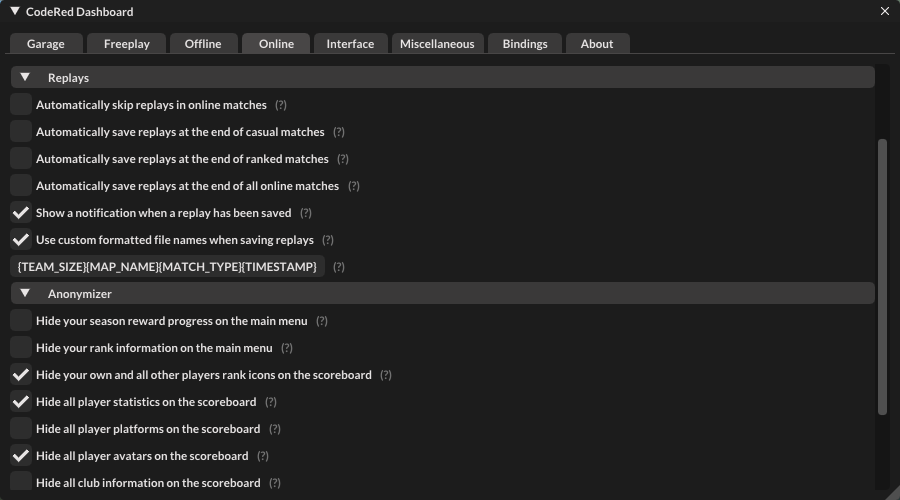
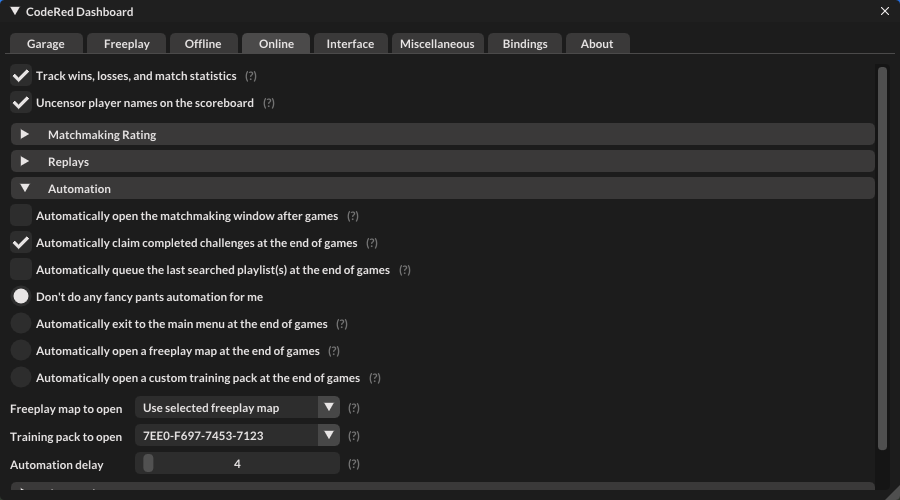
Initial Commit

Changed region(s): [[0.0, 0.12, 0.9956, 0.66], [0.0, 0.69, 0.9956, 0.99], [0.9644, 0.81, 0.9956, 0.9]]

diff --git a/documentation.html b/documentation.html
@@ -92,7 +92,7 @@
 				    <li class="nav-item"><a class="nav-link scrollto" href="#item-6-3">Custom Titles</a></li>
                     <li class="nav-item"><a class="nav-link scrollto" href="#item-6-4">Bug Reporting</li>
 				    <li class="nav-item section-title mt-3"><a class="nav-link scrollto" href="#section-7"><span class="theme-icon-holder me-2"><i class="fas fa-book"></i></span>Changelog</a></li>
-				    <li class="nav-item"><a class="nav-link scrollto" href="#item-7-1">Version 1.1.9</a></li>
+				    <li class="nav-item"><a class="nav-link scrollto" href="#item-7-1">Version 1.2.0</a></li>
 			    </ul>
 		    </nav>
 	    </div>
@@ -861,6 +861,10 @@
                                         <td>Enable april fools vegetable rank icons.</td>
                                     </tr>
                                     <tr>
+                                        <th class="theme-bg-light"><b>interface_auto_claim &lttrue-false&gt</b></th>
+                                        <td>Automatically claims completed challenges at the end of online matches.</td>
+                                    </tr>
+                                    <tr>
                                         <th class="theme-bg-light"><b>interface_auto_limit_fps &lttrue-false&gt</b></th>
                                         <td>Automatically limits your fps to the set value when Rocket League is not in focus.</td>
                                     </tr>
@@ -951,6 +955,10 @@
                                     <tr>
                                         <th class="theme-bg-light"><b>interface_custom_status &lttrue-false&gt</b></th>
                                         <td>Override your friends list status custom one.</td>
+                                    </tr>
+                                    <tr>
+                                        <th class="theme-bg-light"><b>interface_draw_fps &lttrue-false&gt</b></th>
+                                        <td>Draws an fps counter in the corner of your screen.</td>
                                     </tr>
                                     <tr>
                                         <th class="theme-bg-light"><b>interface_disable_ads &lttrue-false&gt</b></th>
@@ -1677,6 +1685,13 @@
 					    <h1 class="docs-heading">Changelog</h1>
 				    </header>
 				     <section class="docs-section" id="item-7-1">
+                        <h2 class="section-heading">Version 1.2.0 (January 7th 2023)</h2>
+                        <h5>- Added a new <code>interface_auto_claim</code> setting, which automatically checks and claims completed season challenges at the end of matches.</h5>
+                        <h5>- Added the setting <code>interface_draw_fps</code>, which draws an fps counter in corner of your screen.</h5>
+                        <h5>- Fixed the session tracker incorrectly displaying knockout damage as damage done from dropshot tiles.</h5>
+                        <h5>- Fixed the ImGui radio button for the "don't do automation" option not selecting.</h5>
+                        <h5>- Moved the "auto open matchmaking window" checkbox in the online tab to under the automation header.</h5>
+
                         <h2 class="section-heading">Version 1.1.9 (January 7th 2023)</h2>
                         <h5>- Added five new automation settings inspired by ToolB0x's \"Instant Suite\" plugin.</h5>
                         <h5>- Added the <code>interface_auto_queue</code> setting, when it enabled it automatically re-queues for you at the end of games.</h5>
